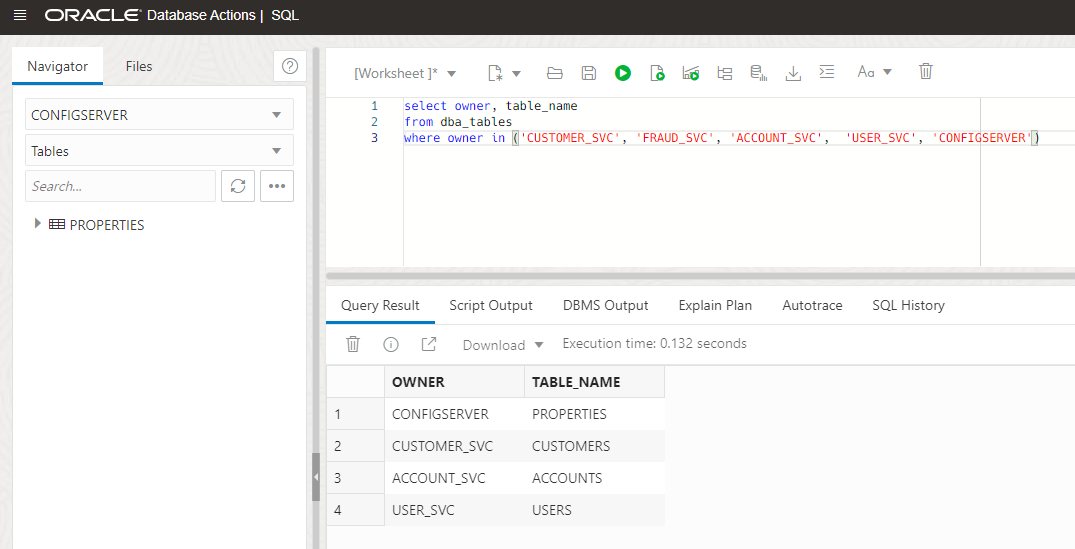
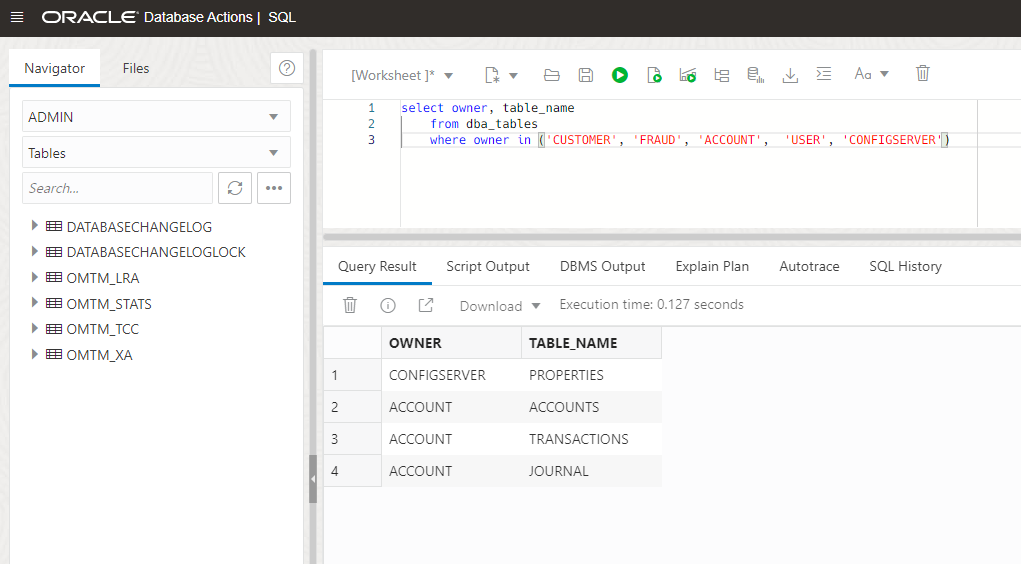
small fixes

diff --git a/obaas/explore-platform/explore-platform.md b/obaas/explore-platform/explore-platform.md
@@ -115,7 +115,7 @@ Oracle Backend for Spring Boot includes a number of platform services which are 
    If you want to view extended information about any object you can specify its name and the output format, as in this example:
 
     ```shell
-    $ <copy>kubectl -n apisix get pod apisix-etcd-0</copy>
+    $ <copy>kubectl -n apisix get pod apisix-etcd-0 -o yaml</copy>
     ```
 
 3. Explore services
@@ -151,7 +151,7 @@ Oracle Backend for Spring Boot includes a number of platform services which are 
 
    Whenever you create a new application namespace with the CLI and bind it to the database, these secrets will be automatically created for you in that namespace.  The first one contains the credentials to access the Oracle Autonomous Database.  The second one contains the database client configuration files (`tnsadmin.ora`, `sqlnet.ora`, the keystores, and so on).  The third secret contains the credentials needed to pull container images from your container registry.  And the final secret contains certificates used within Kubernetes to encrypt traffic between pods and to authenticate to the Kubernetes API server. 
 
-   You can view detailed information about a secret with a command like this (your output will be different). Note that the values are uuencoded in this output: 
+   You can view detailed information about a secret with a command like this, you will need to provide the name of your secret which will be based on the name you chose during installation (your output will be different). Note that the values are uuencoded in this output: 
 
     ```shell
     $ <copy>kubectl -n application get secret obaasdevdb-db-secrets -o yaml</copy>
@@ -195,7 +195,7 @@ Oracle Backend for Spring Boot includes an Oracle Autonomous Database instance. 
 
 2. Explore Oracle Backend for Spring Boot database objects
 
-   Click on the **Database Actions** link to go to the "Database Actions" page which lets you access and manage information in the database.  Depending on choices you made during installation, you may go straight to Database Actions, or you may need to enter credentials first.  If you are prompted to login, use the user name `ADMIN` and obtain the password from Kubernetes with this command: 
+   Click on the **Database Actions** link to go to the "Database Actions" page which lets you access and manage information in the database.  Depending on choices you made during installation, you may go straight to Database Actions, or you may need to enter credentials first.  If you are prompted to login, use the user name `ADMIN` and obtain the password from Kubernetes with this command (make sure to change the secret name to match the name you chose during installation): 
 
     ```shell
     $ <copy> kubectl -n application get secret obaasdevdb-db-secrets -o jsonpath='{.data.db\.password}' | base64 -d</copy>
@@ -214,7 +214,7 @@ Oracle Backend for Spring Boot includes an Oracle Autonomous Database instance. 
     ```sql
     <copy>select owner, table_name
     from dba_tables
-    where owner in ('CUSTOMER_SVC', 'FRAUD_SVC', 'ACCOUNT_SVC',  'USER_SVC', 'CONFIGSERVER')</copy>
+    where owner in ('CUSTOMER', 'FRAUD', 'ACCOUNT',  'USER', 'CONFIGSERVER')</copy>
     ```  
 
    ![Tables associated with Spring Boot services](images/obaas-adb-5.png)

diff --git a/obaas/deploy-cloudbank/deploy-cloudbank.md b/obaas/deploy-cloudbank/deploy-cloudbank.md
@@ -176,7 +176,7 @@ Download a copy of the CloudBank sample application.
 
     	```shell
     	oractl> <copy>
-		deploy --isRedeploy false --appName application --serviceName customer --jarLocation /path/to/customer/target/customers-0.0.1-SNAPSHOT.jar --imageVersion 0.0.1</copy>
+		deploy --isRedeploy false --appName application --serviceName customer --jarLocation /path/to/customer/target/customer-0.0.1-SNAPSHOT.jar --imageVersion 0.0.1</copy>
 		uploading... upload successful
 		building and pushing image... docker build and push successful	
 		creating deployment and service... create deployment and service  = customer, appName = application, isRedeploy = false successful
